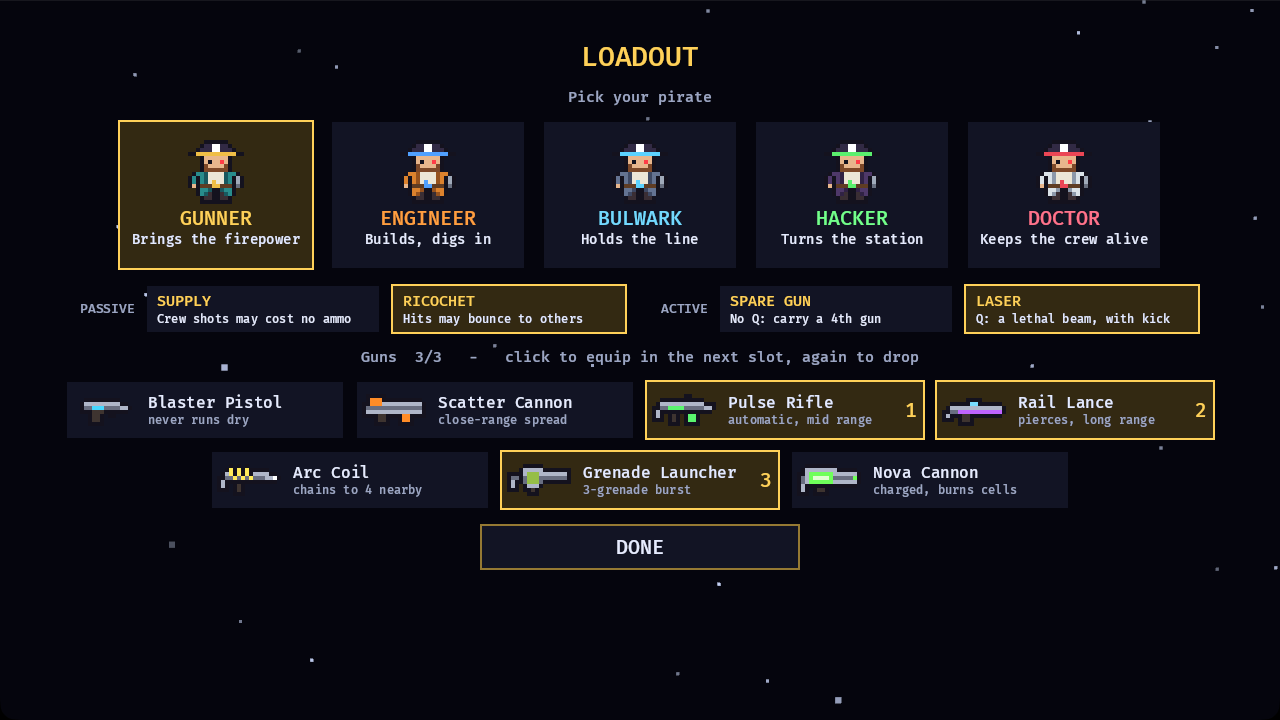
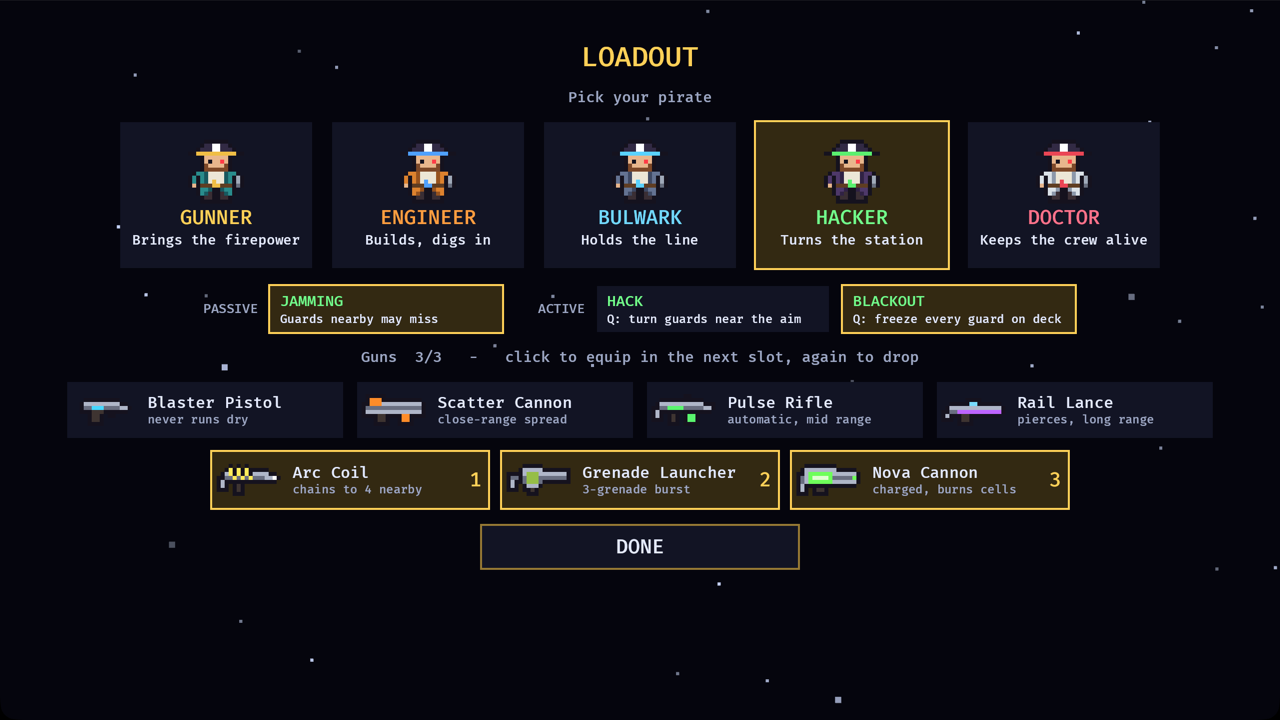
Updated the README screenshots

diff --git a/README.md b/README.md
@@ -54,11 +54,11 @@ Built with Rust and [Bevy](https://bevyengine.org/); LAN multiplayer uses
 | | |
 | --- | --- |
 | ![Main menu](docs/screenshots/menu.png) | ![Loadout](docs/screenshots/loadout.png) |
-| The main menu | Picking a class, abilities and guns |
+| The main menu | Picking a class, abilities and guns: here the Hacker with Blackout |
 | ![Crew lobby](docs/screenshots/lobby.png) | ![Perks](docs/screenshots/perks.png) |
 | The crew lobby: one of each class, picked by whoever took it | The perks lying around each deck, under **EXTRAS** |
 | ![A raid](docs/screenshots/raid.png) | ![Results](docs/screenshots/results.png) |
-| A Gunner's laser kicking off their aim beside a Bulwark, with each other's status in the crew panel | A crew that didn't make it out |
+| Two pirates pulling bars out of deck 2's gold vault in lockdown, with guards closing in | The last pirate out takes the crew's pool, plus a bonus for the crewmate who left early |
 | ![Enemies](docs/screenshots/enemies.png) | |
 | The station's guards, under **EXTRAS** in the main menu | |
 
